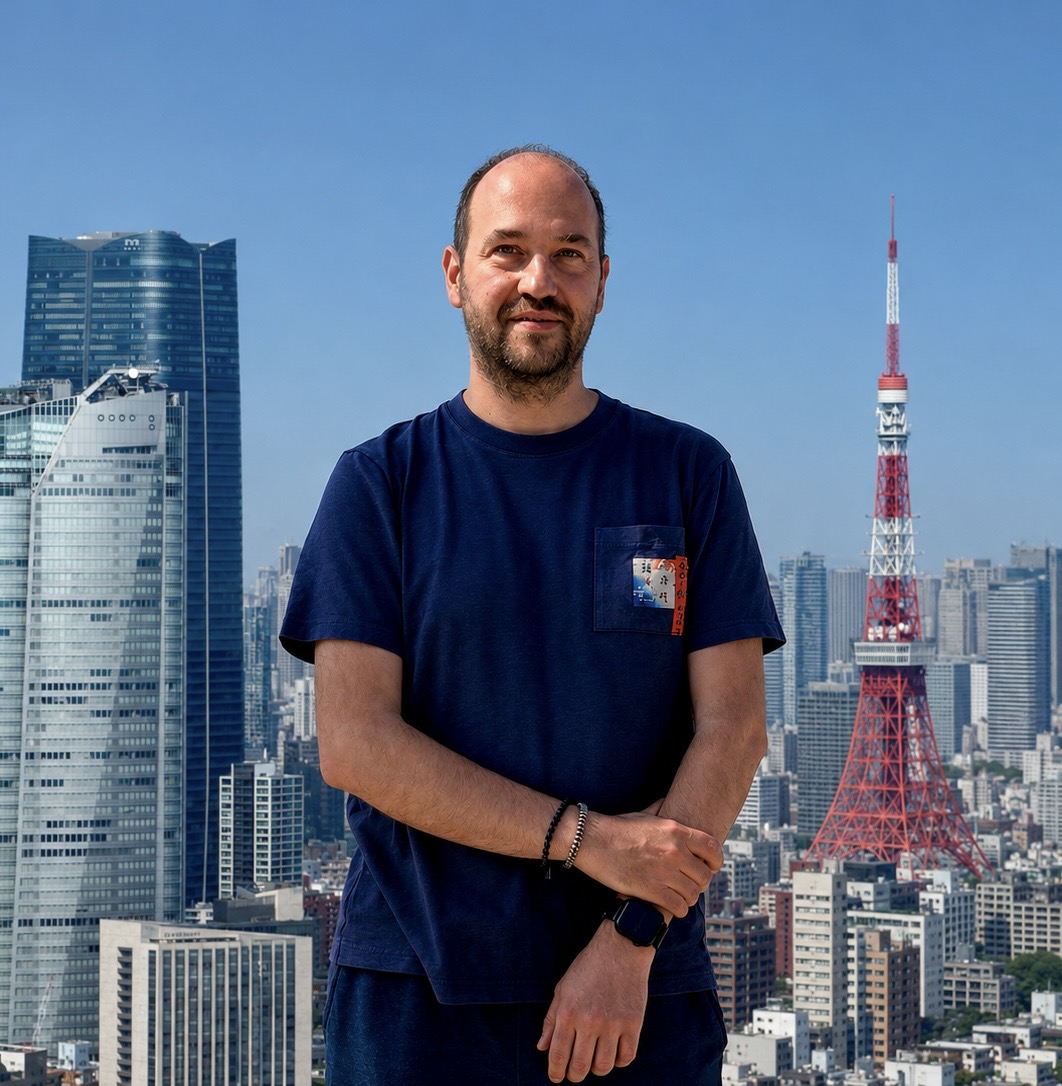
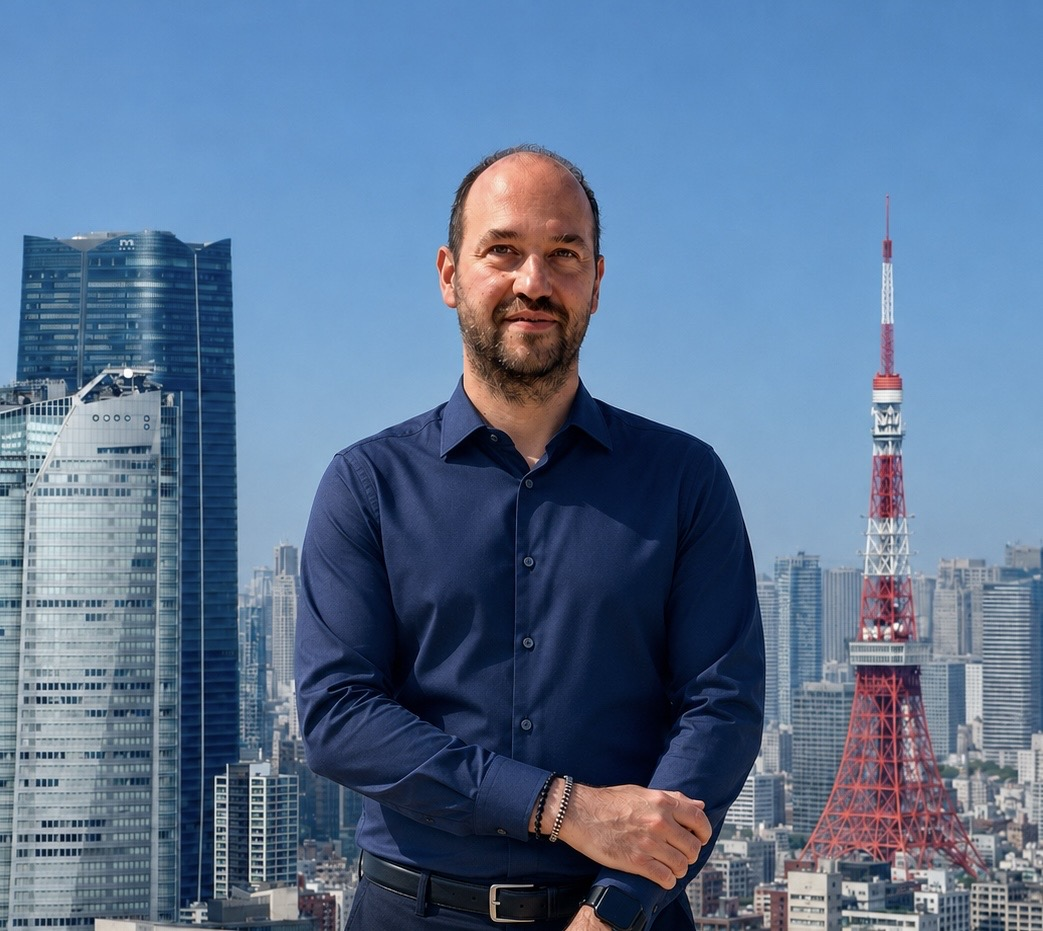
Update Tokyo portrait presentation

diff --git a/app/globals.css b/app/globals.css
@@ -141,11 +141,11 @@ nav a:focus-visible::after {
 }
 
 .hero {
-  min-height: 560px;
+  min-height: 620px;
   padding: 108px clamp(24px, 5.5vw, 80px) 48px;
   display: grid;
-  grid-template-columns: minmax(0, 1.25fr) minmax(280px, 0.65fr);
-  gap: clamp(32px, 5vw, 72px);
+  grid-template-columns: minmax(0, 1.08fr) minmax(430px, 0.92fr);
+  gap: clamp(30px, 4vw, 58px);
   align-items: center;
   background:
     radial-gradient(circle at 79% 26%, rgba(180, 141, 59, 0.12), transparent 24%),
@@ -230,13 +230,13 @@ nav a:focus-visible::after {
 .hero-panel {
   position: relative;
   isolation: isolate;
-  width: min(100%, 330px);
-  aspect-ratio: 0.86;
+  width: min(100%, 510px);
+  aspect-ratio: 1043 / 931;
   margin-left: auto;
   overflow: hidden;
   color: var(--white);
   background: var(--blue);
-  border-radius: 210px 210px 24px 24px;
+  border-radius: 260px 260px 24px 24px;
   box-shadow: 0 24px 60px rgba(7, 22, 79, 0.2);
 }
 
@@ -1000,7 +1000,7 @@ footer {
   }
 
   .hero-panel {
-    width: min(100%, 330px);
+    width: min(100%, 510px);
     margin: 0 auto;
   }
 
@@ -1062,8 +1062,8 @@ footer {
   }
 
   .hero-panel {
-    width: min(100%, 290px);
-    aspect-ratio: 0.86;
+    width: min(100%, 360px);
+    aspect-ratio: 1043 / 931;
   }
 
   .hero-actions {

diff --git a/app/page.tsx b/app/page.tsx
@@ -186,7 +186,7 @@ export default function Home() {
             alt="Prof. Dr. Vesselin Baev in Tokyo"
             fill
             priority
-            sizes="(max-width: 640px) 290px, 330px"
+            sizes="(max-width: 640px) 360px, 510px"
           />
           <div className="hero-role">
             <span>Vice Dean</span>
@@ -194,8 +194,8 @@ export default function Home() {
             <small>Faculty of Biology</small>
           </div>
           <div className="hero-location">
-            <span>42.1354° N</span>
-            <span>24.7453° E</span>
+            <span>35.6762° N</span>
+            <span>139.6503° E</span>
           </div>
         </div>
       </section>

diff --git a/CHANGELOG_AGENT.md b/CHANGELOG_AGENT.md
@@ -44,6 +44,9 @@
 - Reduced the VB hero panel and removed the CV download button.
 - Replaced the VB hero monogram with the user portrait, preserving the arch
   shape and adding a gold-edged text treatment for contrast.
+- Replaced the first Tokyo portrait with the revised 1043 × 931 image and
+  widened the arch to the photograph's natural aspect ratio.
+- Updated the hero coordinates from Plovdiv to Tokyo.
 - Standardized Professor, Associate Professor and Assistant Professor
   affiliations to Department of Molecular Biology, University of Plovdiv.
 - Split Tool development, Illumina/ONT analysis and AI bioinformatics solutions
@@ -92,6 +95,7 @@
   research directions, separate Teaching entries and removal of the CV button.
 - Rendered-content and asset tests cover the portrait, telephone, iMessage link
   and removal of the hero monogram.
+- Rendered-content tests cover the Tokyo latitude and longitude.
 - The Crossref enrichment endpoint returned five complete author records for a
   live DOI test.
 - Desktop page height was reduced by approximately 28%.

diff --git a/AGENT_HANDOFF.md b/AGENT_HANDOFF.md
@@ -48,7 +48,10 @@ The English academic CV website is implemented and ready for GitHub Pages.
 - The hero panel is intentionally smaller than the text column and uses
   `public/Vesselin-Baev-Tokyo.jpg` inside the existing arch shape. The VB
   monogram and CV download button have been removed. A dark lower gradient and
-  subtle gold text strokes preserve the role text over the photograph.
+  subtle gold text strokes preserve the role text over the photograph. The
+  current portrait is 1043 × 931 px; the desktop arch uses the same aspect ratio
+  at up to 510 px wide so the full photograph remains visible.
+- The decorative hero coordinates are for Tokyo: `35.6762° N, 139.6503° E`.
 - Contact links list the institutional email, telephone and an iMessage link to
   `vebaev@gmail.com` before the institutional and Scopus links.
 - Memberships lists AI-GUIDE CA25157 first, followed by BM1006 and FA1407.
